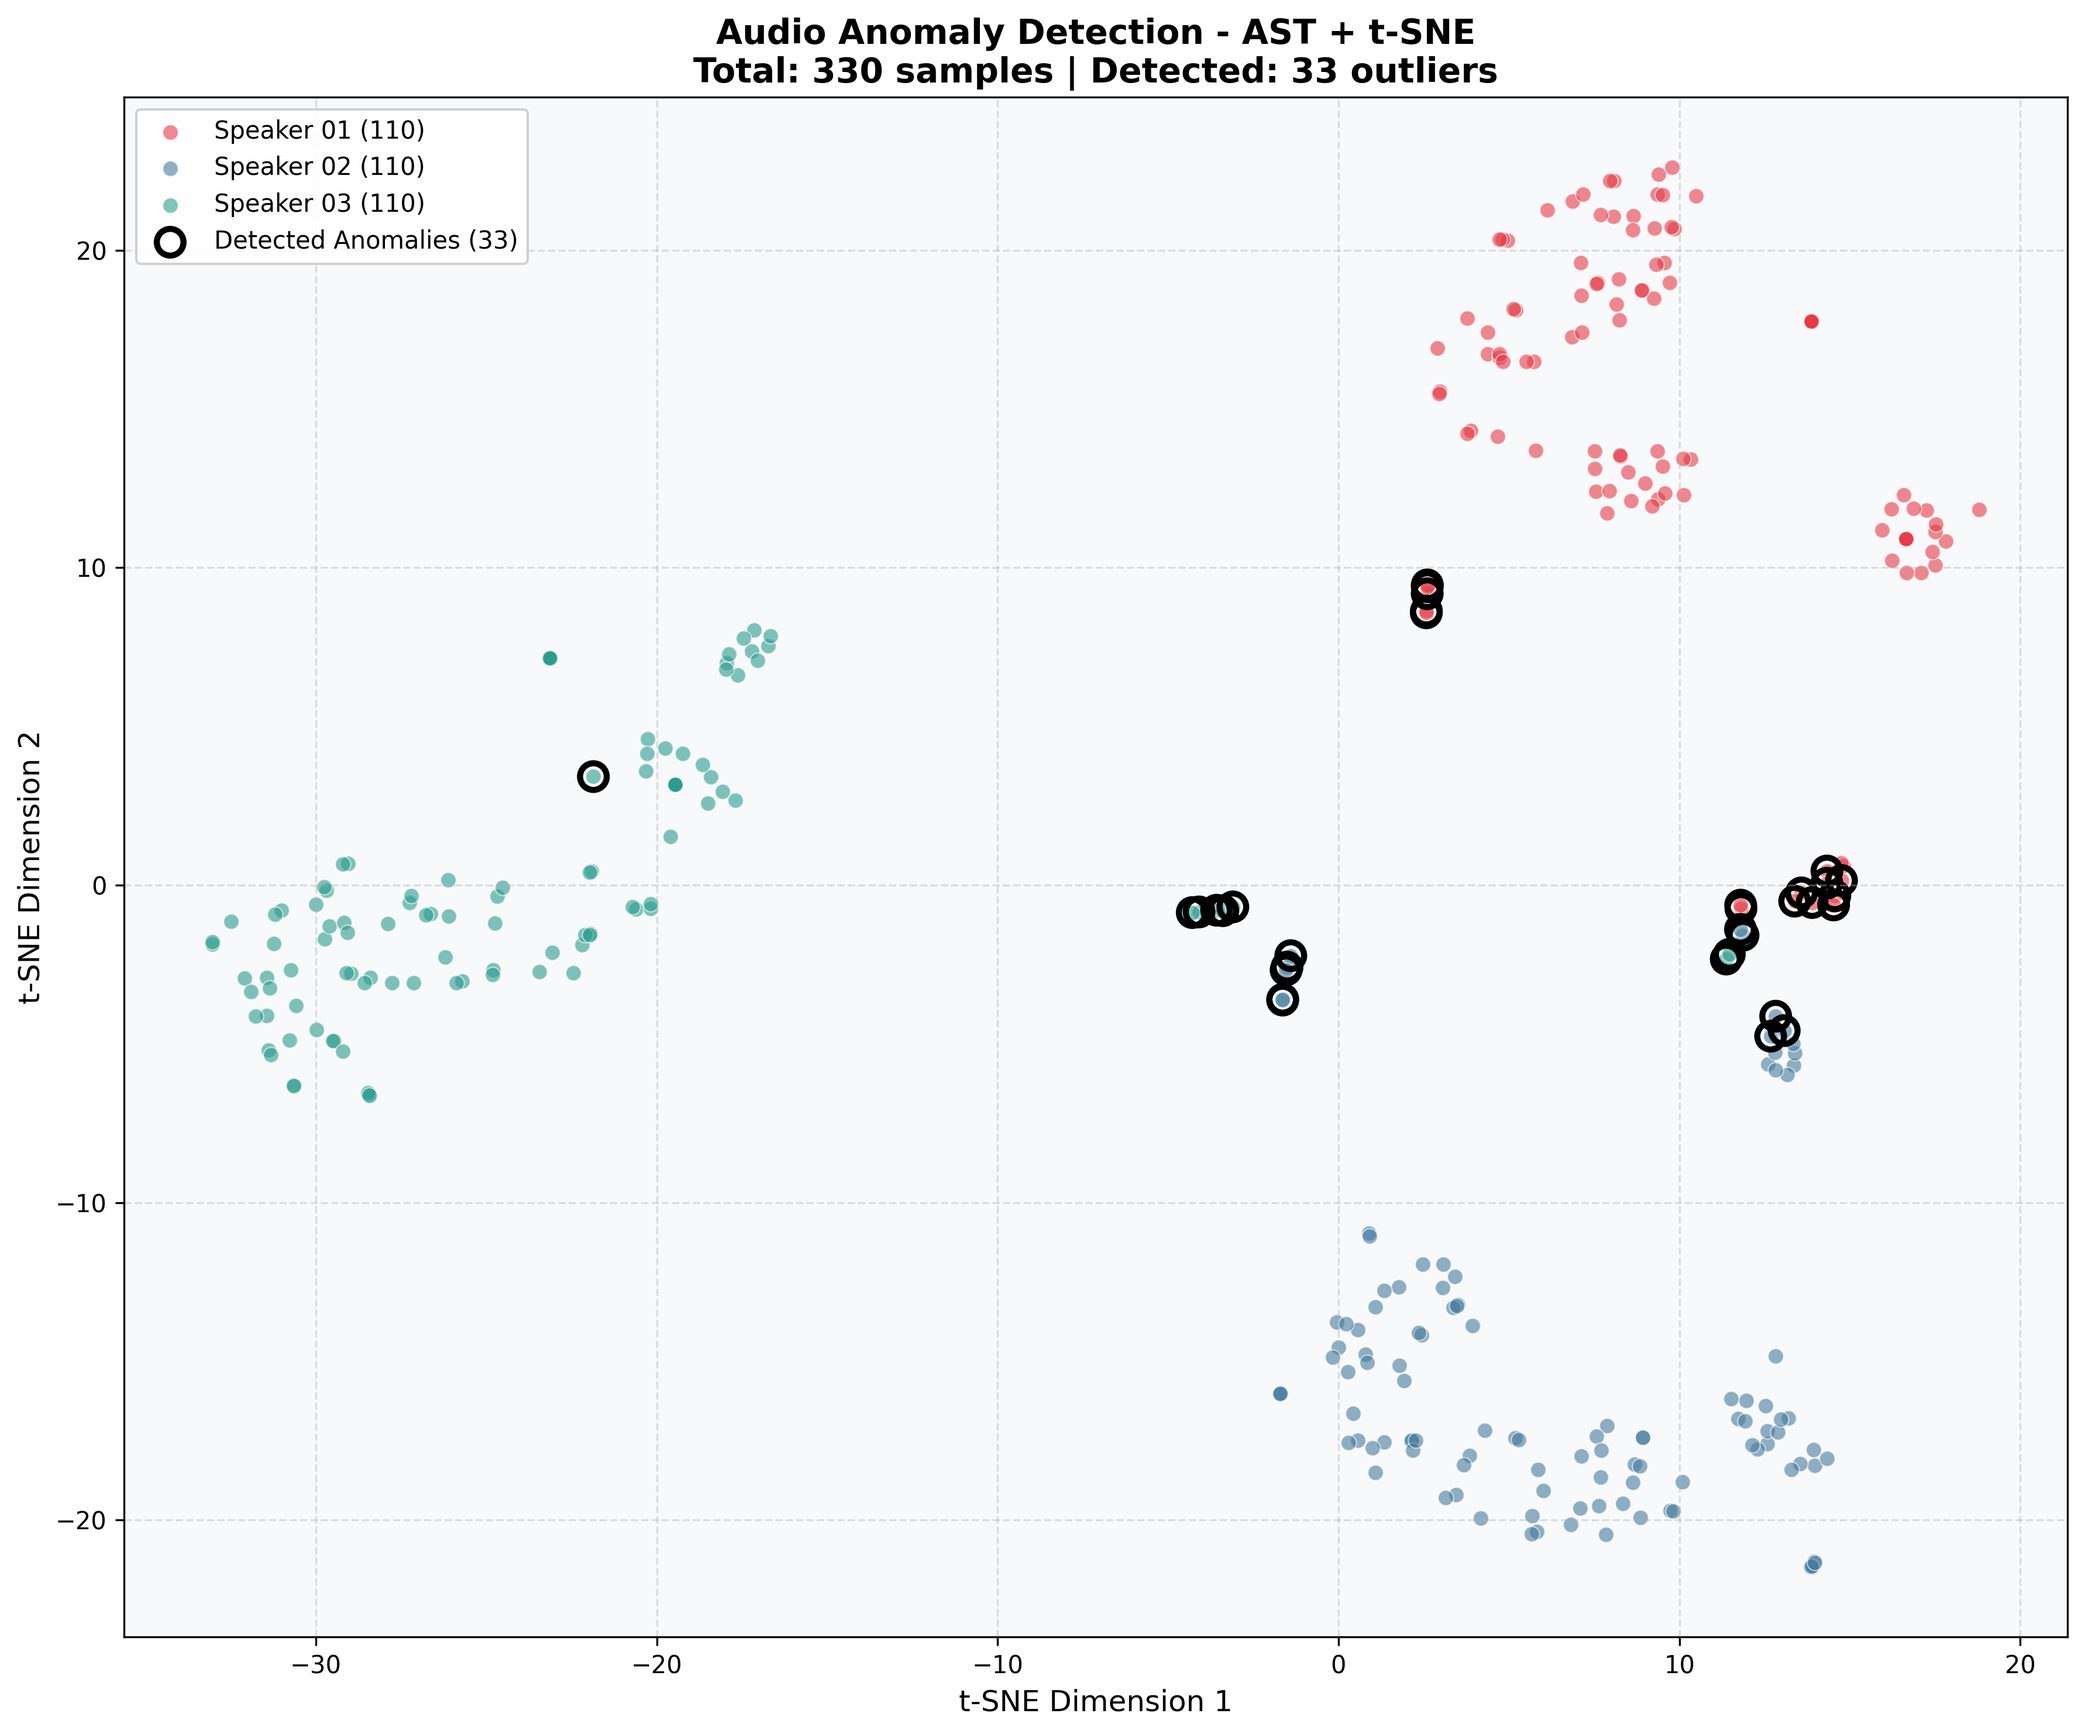
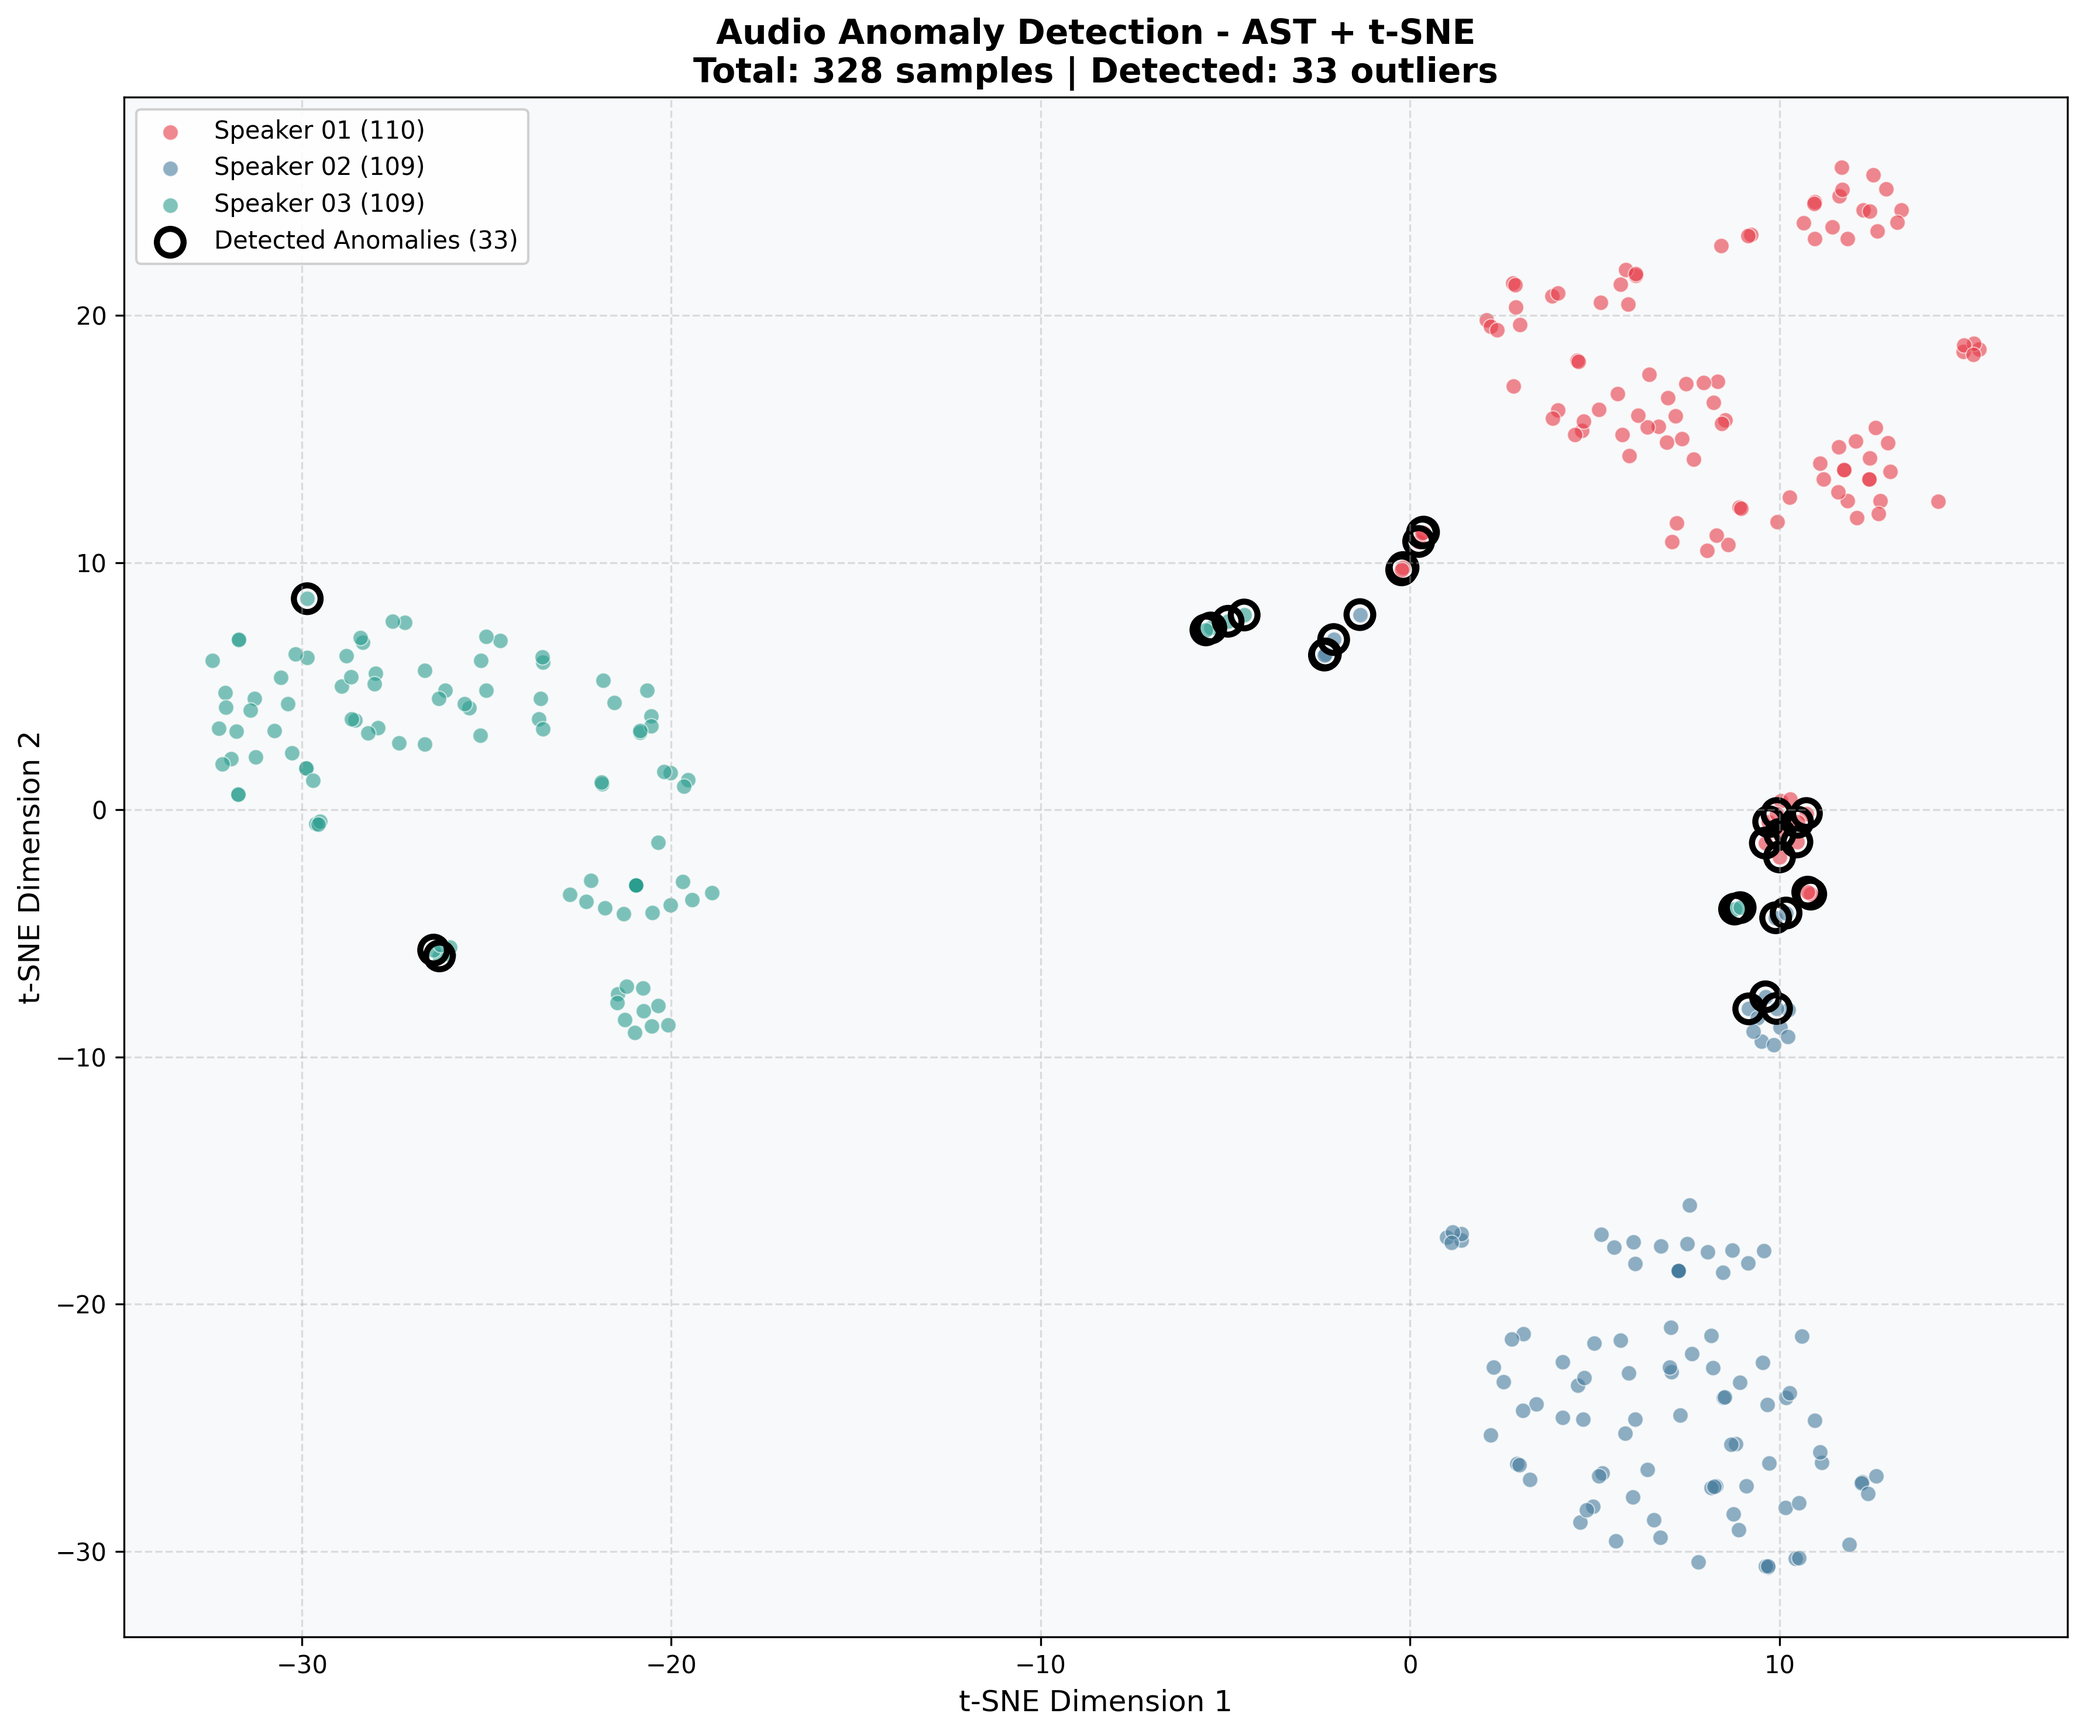
优化聚类和可视化GUI

diff --git a/聚类可视化/audio_anomaly_detection.py b/聚类可视化/audio_anomaly_detection.py
@@ -60,6 +60,21 @@ class BaseFeatureExtractor(ABC):
     def __init__(self, config: Config):
         self.config = config
 
+    def _preprocess(self, audio: np.ndarray, sr: int, top_db: float = 30) -> np.ndarray:
+        """
+        音频预处理：去除开头和结尾的静音区域
+
+        参数:
+            audio: 原始音频数组
+            sr: 采样率
+            top_db: 静音阈值（低于该值视为静音），默认30dB
+
+        返回:
+            去除首尾静音后的音频数组
+        """
+        trimmed, _ = librosa.effects.trim(audio, top_db=top_db)
+        return trimmed
+
     @abstractmethod
     def extract_features(self, audio_path: str) -> np.ndarray:
         """
@@ -114,6 +129,9 @@ class HubertFeatureExtractor(BaseFeatureExtractor):
             sr=self.SAMPLE_RATE,
             mono=True
         )
+
+        # 去除首尾静音
+        waveform = self._preprocess(waveform, self.SAMPLE_RATE)
 
         # 计算每个片段的样本数
         segment_samples = int(self.config.segment_duration * self.SAMPLE_RATE)
@@ -187,6 +205,9 @@ class ASTFeatureExtractor(BaseFeatureExtractor):
         # 加载音频 - 使用模型特定的采样率
         waveform, orig_sr = librosa.load(audio_path, sr=self.SAMPLE_RATE, mono=True)
 
+        # 去除首尾静音
+        waveform = self._preprocess(waveform, self.SAMPLE_RATE)
+
         # 计算每个片段的样本数
         segment_samples = int(self.config.segment_duration * self.SAMPLE_RATE)
         features_list = []
@@ -247,6 +268,9 @@ class MFCCFeatureExtractor(BaseFeatureExtractor):
             mono=True
         )
 
+        # 去除首尾静音
+        waveform = self._preprocess(waveform, self.SAMPLE_RATE)
+
         # 计算每个片段的样本数
         segment_samples = int(self.config.segment_duration * self.SAMPLE_RATE)
         features_list = []
@@ -302,6 +326,9 @@ class MelSpectrogramExtractor(BaseFeatureExtractor):
             sr=self.SAMPLE_RATE,
             mono=True
         )
+
+        # 去除首尾静音
+        waveform = self._preprocess(waveform, self.SAMPLE_RATE)
 
         # 计算每个片段的样本数
         segment_samples = int(self.config.segment_duration * self.SAMPLE_RATE)
@@ -378,6 +405,9 @@ class MERTFeatureExtractor(BaseFeatureExtractor):
             sr=self.SAMPLE_RATE,
             mono=True
         )
+
+        # 去除首尾静音
+        waveform = self._preprocess(waveform, self.SAMPLE_RATE)
 
         # 计算每个片段的样本数
         segment_samples = int(self.config.segment_duration * self.SAMPLE_RATE)
@@ -456,6 +486,9 @@ class WavLMFeatureExtractor(BaseFeatureExtractor):
             mono=True
         )
 
+        # 去除首尾静音
+        waveform = self._preprocess(waveform, self.SAMPLE_RATE)
+
         # 计算每个片段的样本数
         segment_samples = int(self.config.segment_duration * self.SAMPLE_RATE)
         features_list = []
@@ -532,6 +565,9 @@ class XLSRWav2Vec2FeatureExtractor(BaseFeatureExtractor):
             sr=self.SAMPLE_RATE,
             mono=True
         )
+
+        # 去除首尾静音
+        waveform = self._preprocess(waveform, self.SAMPLE_RATE)
 
         # 计算每个片段的样本数
         segment_samples = int(self.config.segment_duration * self.SAMPLE_RATE)

diff --git a/聚类可视化/web_app.py b/聚类可视化/web_app.py
@@ -554,7 +554,7 @@ def generate_report(
 
 def create_ui():
     """创建Gradio界面"""
-    with gr.Blocks(title="音频异常检测") as demo:
+    with gr.Blocks(title="音频聚类与异常检测") as audio_app:
         gr.Markdown("""
         # 🎵 音频异常检测与聚类可视化
 
@@ -629,7 +629,7 @@ def create_ui():
             outputs=[plot_output, report_output, log_output]
         )
 
-    return demo
+    return audio_app
 
 
 if __name__ == "__main__":

diff --git a/聚类可视化/02_augment_audio.py b/聚类可视化/02_augment_audio.py
@@ -152,6 +152,9 @@ def create_audio_database():
         # 加载原始音频
         audio, sr = librosa.load(raw_file, sr=16000)
 
+        # 去除首尾静音
+        audio, _ = librosa.effects.trim(audio, top_db=30)
+
         print(f"\n{'='*70}")
         print(f"处理 {raw_file.name}:")
         print(f"{'='*70}")
